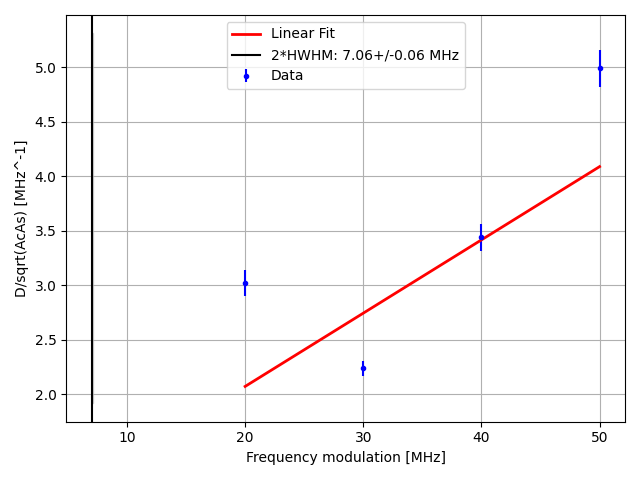
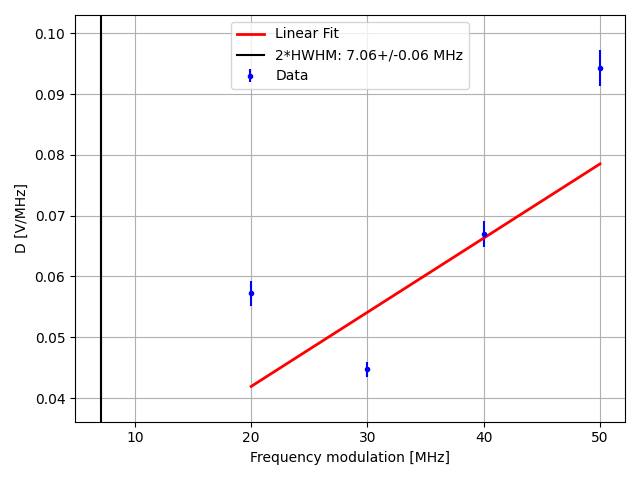
bad estimate of beta

diff --git a/error_signal_slope.py b/error_signal_slope.py
@@ -3,7 +3,9 @@ import matplotlib.pyplot as plt
 import numpy as np
 from uncertainties import ufloat
 import uncertainties.unumpy as unp
-from scipy.optimize import curve_fit
+from scipy.special import jv
+from scipy.optimize import fsolve, curve_fit
+from functools import partial
 
 data_folder = 'data_non_confocal/clean_data'
 
@@ -42,35 +44,28 @@ for label, df in grouped_peaks.items():
     A_c.append(carrier)
     dA_c.append(d_carrier)
 
-# factor_list = [unp.sqrt(c * s) for c, s in zip(unp.uarray(A_s, dA_s), unp.uarray(A_c, dA_c))]
-
-factor_arr = unp.sqrt(unp.uarray(A_s, dA_s) * unp.uarray(A_c, dA_c))
-
 slope_data = pd.read_csv(f'{data_folder}/calib_slopes.csv')
 
 mod_f = slope_data['mod_f'].to_numpy()
-D_unc = unp.uarray(np.abs(slope_data['D'].to_numpy()), slope_data['d_D'].to_numpy())
 
-y_unc = D_unc / factor_arr
-
-y_fit = unp.nominal_values(y_unc)
-dy_fit = unp.std_devs(y_unc)
+D_values = np.abs(slope_data['D'].to_numpy())
+d_D = slope_data['d_D'].to_numpy()
 
 
 def linear(x, a, b):
     return a * x + b
 
 
-popt, pcov = curve_fit(linear, xdata=mod_f, ydata=y_fit, p0=[
-                       0, np.mean(y_fit)], sigma=dy_fit, absolute_sigma=True)
+popt, pcov = curve_fit(linear, xdata=mod_f, ydata=D_values, p0=[
+                       0, np.mean(D_values)], sigma=d_D, absolute_sigma=True)
 
-print(f'Fit result: a = {popt[0]} +/- {np.sqrt(pcov[0, 0])} MHz^-1')
-print(f'b = {popt[1]} +/- {np.sqrt(pcov[1, 1])}')
+print(f'Fit result: a = {popt[0]} +/- {np.sqrt(pcov[0, 0])} V*MHz^-2')
+print(f'b = {popt[1]} +/- {np.sqrt(pcov[1, 1])} V')
 
 xplot = np.linspace(mod_f[0], mod_f[-1], 100)
 
 plt.figure()
-plt.errorbar(mod_f, y_fit, dy_fit, ls='', label='Data', color='blue', fmt='.')
+plt.errorbar(mod_f, D_values, d_D, ls='', label='Data', color='blue', fmt='.')
 plt.plot(xplot, linear(xplot, *popt),
          label='Linear Fit', color='red', linewidth=2)
 plt.axvline(hwhm.n, color='black', label=f'2*HWHM: {hwhm} MHz')
@@ -78,9 +73,30 @@ y_min, y_max = plt.gca().get_ylim()
 plt.fill_betweenx(y=np.linspace(y_min, y_max, 100), x1=hwhm.n -
                   hwhm.std_dev, x2=hwhm.n + hwhm.std_dev, color='grey', alpha=0.3)
 plt.xlabel('Frequency modulation [MHz]')
-plt.ylabel('D/sqrt(AcAs) [MHz^-1]')
+plt.ylabel('D [V/MHz]')
 plt.legend()
 plt.grid()
 plt.tight_layout()
 plt.savefig('data_non_confocal/figures/error_signal_slope.png')
+
+As_Ac = unp.uarray(A_s, dA_s) / unp.uarray(A_c, dA_c)
+
+
+def extract_beta(x, asac):
+    return (jv(1, x))**2 / (jv(0, x))**2 - asac
+
+
+x = np.linspace(0, 2, 100)
+y = (jv(1, x))**2 / (jv(0, x))**2
+
+beta = [fsolve(partial(extract_beta, asac=ratio.nominal_value), 0.9)[0]
+        for ratio in As_Ac]
+
+plt.figure()
+plt.plot(mod_f, beta, color='red', linewidth=2, marker='o')
+plt.xlabel('Frequency modulation [MHz]')
+plt.ylabel(r'$\beta$')
+plt.grid()
+plt.tight_layout()
+plt.savefig('data_non_confocal/figures/beta_bad_estimate.png')
 plt.show()
